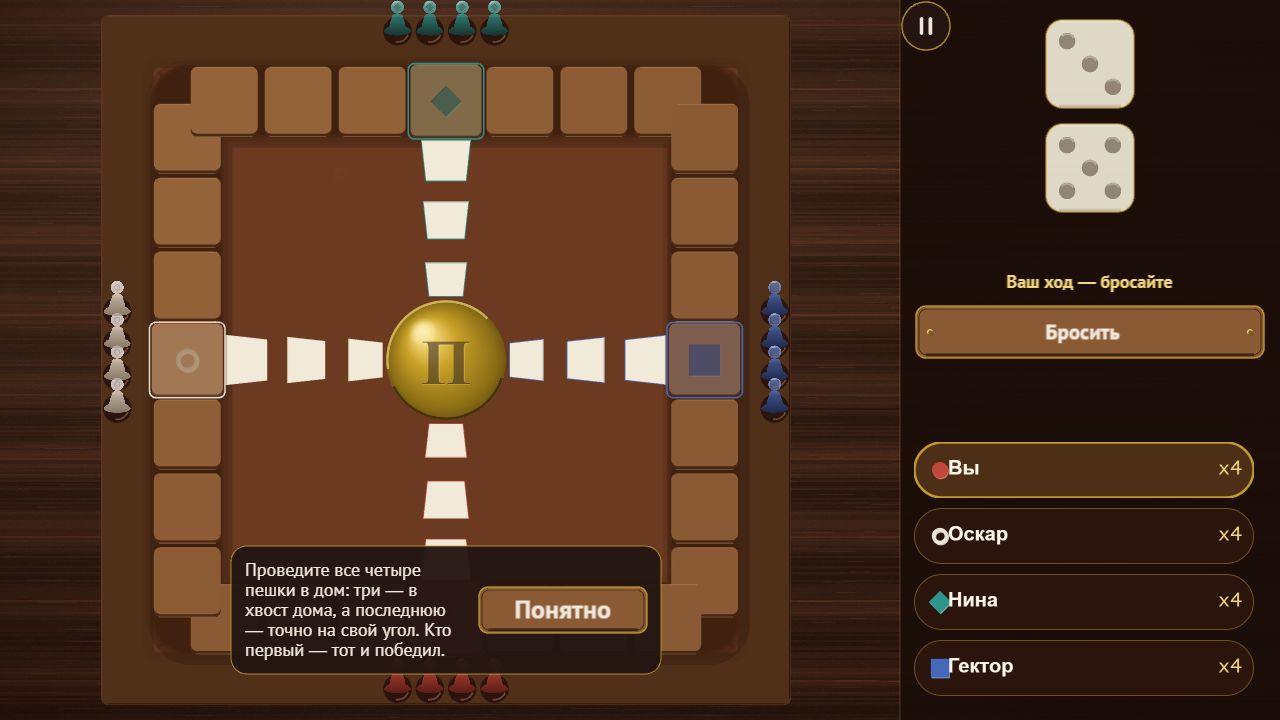
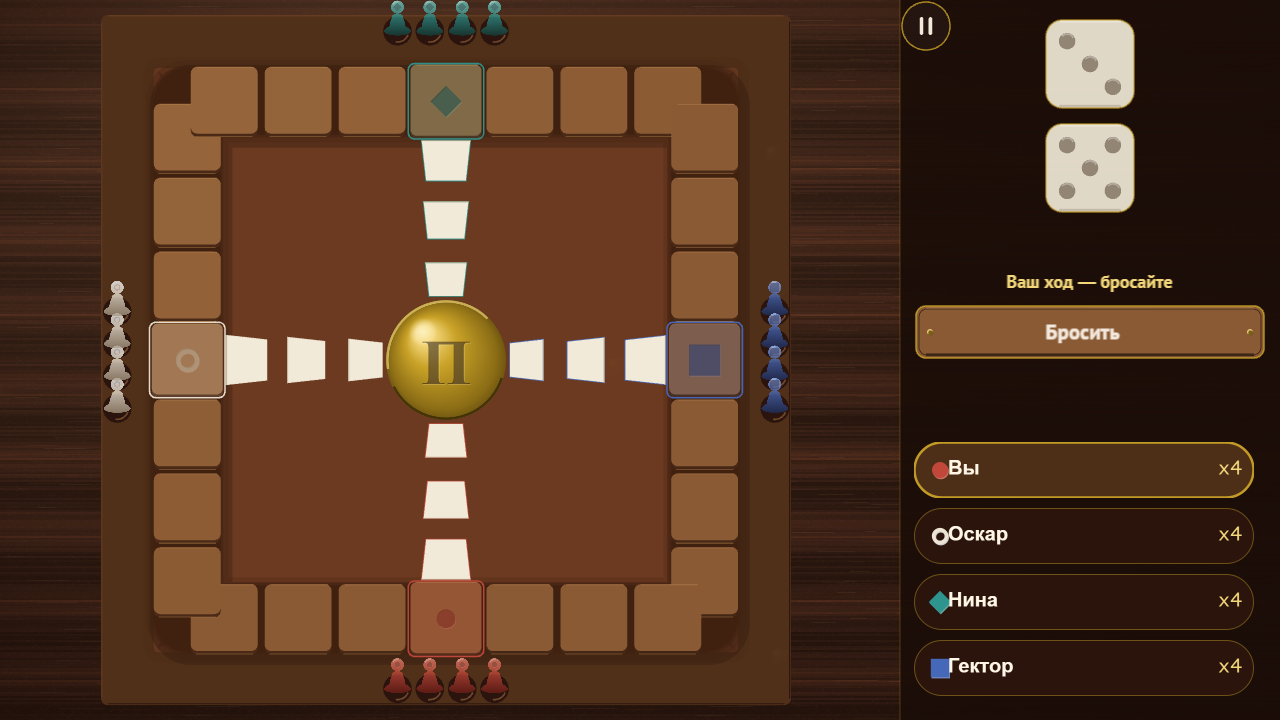
web: hint as a centred card, portrait bench dropped, 14px body floor (#8 review)

Changed region(s): [[0.1562, 0.7333, 0.5312, 0.9472]]

diff --git a/web/src/ui/tutorial.ts b/web/src/ui/tutorial.ts
@@ -1,12 +1,11 @@
 import { Container, Graphics, Rectangle, Text } from 'pixi.js';
-import { COLORS } from '../render/palette';
 import { FONTS } from '../render/fonts';
 import { t } from '../i18n';
 import { attachKeyGroup, detachKeyGroup } from './keys';
 import type { KeyGroup } from './keys';
 import { createButton } from './widgets';
+import { drawCardPlate, fadeScrimIn, SCRIM_ALPHA, SCRIM_FILL } from './card';
 import type { GameLayout } from '../render/hud';
-import { getSafeArea } from '../render/hud';
 
 export interface TutorialBanner {
   root: Container;
@@ -14,72 +13,59 @@ export interface TutorialBanner {
   /** Shows one concept line; a re-show replaces the text. */
   show(text: string): void;
   hide(): void;
-  /** Dialog rule: the hint strip must not look tappable behind a scrim. */
+  /** Dialog rule: the hint card must not look tappable behind a scrim. */
   setSuppressed(value: boolean): void;
 }
 
 /**
- * First-game hint: one board strip per concept, dismissed with common.ok,
- * persisted through the progress blob by the caller.
+ * First-game hint, one concept per dismissal. #8 review round 2: the old board
+ * strip sat across the cells it explains — the hint is now a centred
+ * dialog-language card over a scrim and never touches the playing field.
  */
 export function createTutorialBanner(onDismiss: () => void): TutorialBanner {
   const root = new Container();
   root.eventMode = 'static';
   root.visible = false;
 
+  const scrim = new Graphics();
   const plate = new Graphics();
   const text = new Text({
     text: '',
-    style: { fill: 0xf2e8dc, fontFamily: FONTS.body, fontWeight: '400', wordWrap: true, breakWords: true },
+    style: {
+      fill: 0xf2e8dc,
+      fontFamily: FONTS.body,
+      fontWeight: '400',
+      wordWrap: true,
+      breakWords: true,
+      align: 'center',
+    },
   });
+  text.anchor.set(0.5, 0);
   const button = createButton(t('common.ok'), { kind: 'primary', width: 168, height: 46, onTap: onDismiss });
   const group: KeyGroup = { root, focusable: () => [button], onEscape: onDismiss };
   const surface: { width: number; height: number; game: GameLayout | null } = { width: 0, height: 0, game: null };
 
-  root.addChild(plate, text, button.root);
+  root.addChild(scrim, plate, text, button.root);
 
   function place(): void {
     const { width, height, game } = surface;
     if (game === null || width === 0) return;
-    const portrait = game.orientation === 'portrait';
-    const bannerWidth = Math.min(width - 24, portrait ? 300 : 430);
-    const pad = 14;
-    text.style.fontSize = game.baseFont + 1;
-    if (portrait) {
-      text.anchor.set(0, 0);
-      // stack: text line(s) over the ack button
-      text.style.wordWrapWidth = bannerWidth - pad * 2;
-      const bannerHeight = pad * 2 + text.height + 12 + 46;
-      const trayPad = game.isTv ? 1.5 : 1;
-      const bottom = Math.max(Math.round(8 * trayPad), getSafeArea().bottom); // §7 safe-area env
-      const y = height - bottom - Math.round(224 * trayPad) - bannerHeight / 2 - 8;
-      root.position.set(width / 2, y);
-      text.position.set(-bannerWidth / 2 + pad, -bannerHeight / 2 + pad);
-      button.root.position.set(0, bannerHeight / 2 - pad - 23);
-      root.hitArea = new Rectangle(-bannerWidth / 2, -bannerHeight / 2, bannerWidth, bannerHeight);
-      plate.clear();
-      plate.roundRect(-bannerWidth / 2, -bannerHeight / 2, bannerWidth, bannerHeight, 16).fill({ color: 0x241511, alpha: 0.96 });
-      plate
-        .roundRect(-bannerWidth / 2, -bannerHeight / 2, bannerWidth, bannerHeight, 16)
-        .stroke({ width: 1, color: COLORS.brass, alpha: 0.8 });
-      return;
-    }
+    // §9 floor: body text never drops below 14 px, portrait phone stays at baseFont
+    const bodyFont = Math.max(game.baseFont, 14);
+    const cardWidth = Math.round(game.orientation === 'portrait' ? Math.min(width - 40, 340) : 460);
+    text.style.fontSize = bodyFont;
+    text.style.wordWrapWidth = cardWidth - 64;
+    const cardHeight = Math.round(28 + text.height + 18 + 46 + 26);
 
-    // landscape: text left, ack button right, just above the bottom board edge
-    text.anchor.set(0, 0.5);
-    text.style.wordWrapWidth = bannerWidth - pad * 2 - 180;
-    const landscapeHeight = Math.max(text.height, 46) + pad * 2;
-    root.position.set(game.board.x + game.board.size / 2, height - 110);
-    text.position.set(-bannerWidth / 2 + pad, 0);
-    button.root.position.set(bannerWidth / 2 - pad - 84, 0);
-    root.hitArea = new Rectangle(-bannerWidth / 2, -landscapeHeight / 2, bannerWidth, landscapeHeight);
-    plate.clear();
-    plate
-      .roundRect(-bannerWidth / 2, -landscapeHeight / 2, bannerWidth, landscapeHeight, 16)
-      .fill({ color: 0x241511, alpha: 0.96 });
-    plate
-      .roundRect(-bannerWidth / 2, -landscapeHeight / 2, bannerWidth, landscapeHeight, 16)
-      .stroke({ width: 1, color: COLORS.brass, alpha: 0.8 });
+    scrim
+      .clear()
+      .rect(-width / 2, -height / 2, width, height)
+      .fill({ color: SCRIM_FILL, alpha: SCRIM_ALPHA });
+    drawCardPlate(plate, cardWidth, cardHeight);
+    root.position.set(width / 2, height / 2);
+    root.hitArea = new Rectangle(-width / 2, -height / 2, width, height);
+    text.position.set(0, -cardHeight / 2 + 28);
+    button.root.position.set(0, cardHeight / 2 - 26 - 23);
   }
 
   let attached = false;
@@ -100,17 +86,18 @@ export function createTutorialBanner(onDismiss: () => void): TutorialBanner {
       surface.width = width;
       surface.height = height;
       surface.game = game;
-      if (root.visible) place();
+      if (shown) place();
     },
     show(next) {
       text.text = next;
       shown = true;
       applyVisibility();
+      place();
       if (!attached) {
         attached = true;
         attachKeyGroup(group);
       }
-      place();
+      fadeScrimIn(scrim);
     },
     hide() {
       shown = false;

diff --git a/web/tests/screens.spec.ts b/web/tests/screens.spec.ts
@@ -17,12 +17,21 @@ const GAME_URL = 'http://localhost:5173/?screen=game&seed=424242';
 // fresh browser and stale headless shells are force-killed at the end.
 let browser: Browser | null = null;
 
+/** Fresh profiles queue all four hint concepts; art/game shots need the clean board. */
+async function dismissHints(page: Page): Promise<void> {
+  for (let index = 0; index < 4; index += 1) {
+    await page.keyboard.press('Enter');
+    await page.waitForTimeout(140);
+  }
+}
+
 async function freshGamePage(viewport: { width: number; height: number }): Promise<Page> {
   browser = await chromium.launch({ headless: true, args: ['--enable-unsafe-swiftshader'] });
   const page = await browser.newPage({ viewport, deviceScaleFactor: 1 });
   await page.goto(GAME_URL);
   await page.waitForSelector('canvas');
-  // bots play while the shot is taken; the board must show a real game
+  await dismissHints(page);
+  // bots idle while the human seat waits; the board must show a real game
   await page.waitForTimeout(2500);
   await expect(page.locator('canvas')).toBeVisible();
   return page;
@@ -143,6 +152,7 @@ test.describe('art pass evidence', () => {
     });
     await page.goto(`${GAME_URL}&audit=1`);
     await page.waitForSelector('canvas');
+    await dismissHints(page);
     await page.waitForTimeout(3000);
     const canvasesAtBoot = await page.evaluate(
       () => (window as unknown as { __peshkiAudit: { canvases: number } }).__peshkiAudit.canvases,
@@ -312,6 +322,8 @@ test.describe('ticket #7 screens and i18n evidence', () => {
           for (const state of chunk) {
             await page.goto(`http://localhost:5173/?lang=${lang}${state.suffix}`);
             await page.waitForSelector('canvas');
+            // game states carry the first-run hint card; modal shots want the board visible too
+            if (state.suffix.includes('screen=game')) await dismissHints(page);
             // dialogs slide in at 1.2 s (result) / 1.5 s (pause, howto, settings); bots animate meanwhile
             await page.waitForTimeout(2600);
             await page.screenshot({
@@ -342,6 +354,7 @@ test.describe('ticket #8 effect + TV captures', () => {
       const page = await browser.newPage({ viewport: { width: viewport.width, height: viewport.height }, deviceScaleFactor: 1 });
       await page.goto('http://localhost:5173/?screen=game&seed=424242&audit=1&fx=kill');
       await page.waitForSelector('canvas');
+      await dismissHints(page);
       // staging fires at 1500 ms: hop 120 ms, arc 360 ms — the apex is ~1.75 s
       await page.waitForTimeout(1780);
       await page.screenshot({ path: resolve(SHOT_DIR, `fx-kill-${viewport.name}.png`), timeout: 55_000 });
@@ -356,6 +369,8 @@ test.describe('ticket #8 effect + TV captures', () => {
     const page = await browser.newPage({ viewport: { width: 1920, height: 1080 }, deviceScaleFactor: 1 });
     await page.goto(`${GAME_URL}&audit=1`);
     await page.waitForSelector('canvas');
+    // the hint card owns Enter while it shows; clear the queue before the roll walk
+    await dismissHints(page);
     await page.waitForTimeout(2500);
     // walk focus:targets appear once dice are rolled and hint rings are on the board
     await page.keyboard.press('ArrowDown');

diff --git a/web/src/render/board-view.ts b/web/src/render/board-view.ts
@@ -14,6 +14,8 @@ export interface BoardView {
   focusCell(cellIndex: number | null): void;
   /** §4: corner symbols stay engraved until the player's first pawn is placed. */
   setCornerOccupied(playerIndex: number, occupied: boolean): void;
+  /** Review #8 round 2: portrait reads the bench recesses as debris — hide them there too. */
+  setBenchSlotsVisible(visible: boolean): void;
   /** Debug harness (art review #6): show only the named material layers. */
   setLayerVisible(names: ReadonlySet<string>): void;
 }
@@ -65,6 +67,7 @@ export function createBoardView(initial: BoardGeometry, textures: GameTextures):
   let geometry = initial;
   let points = new Map<number, Point>();
   const occupiedCorners = [false, false, false, false];
+  let benchSlotsShown = true;
 
   function layout(next: BoardGeometry): void {
     geometry = next;
@@ -267,6 +270,8 @@ const OUTER_CONTACT = [
 
   /** §4 benches: four recessed seats Ø53 with rim light. */
   function drawBenchSlots(): void {
+    benchesG.clear();
+    if (!benchSlotsShown) return; // portrait review: recesses read as debris at this scale
     const { scale: k } = geometry;
     for (const benches of geometry.benches) {
       for (const slot of benches) {
@@ -332,6 +337,11 @@ const OUTER_CONTACT = [
       if (occupiedCorners[playerIndex] === occupied) return;
       occupiedCorners[playerIndex] = occupied;
       drawCornerMarks();
+    },
+    setBenchSlotsVisible(visible) {
+      if (benchSlotsShown === visible) return;
+      benchSlotsShown = visible;
+      drawBenchSlots();
     },
     setLayerVisible(names) {
       for (const [name, layer] of Object.entries(layerOf)) layer.visible = names.has(name);

diff --git a/web/src/ui/game-screen.ts b/web/src/ui/game-screen.ts
@@ -734,9 +734,12 @@ export function createGameScreen(options: GameScreenOptions): GameScreen {
       boardLayer.position.set(gameLayout.board.x, gameLayout.board.y);
       boardView.layout(geometry);
       pawnViews.layout(geometry);
-      // #8 art handover: portrait bench pawns sit ~18x20 px — unreadable; the chip count (×4) carries it.
-      // Landscape/TV keeps them at ~33x37 px. Bench slots themselves stay drawn.
-      pawnViews.setBenchVisible(!(gameLayout.orientation === 'portrait' && !gameLayout.isTv));
+      // #8 art handover, review round 2: portrait bench pawns are ~18x20 px and the
+      // recesses read as debris at that scale — the chip count (×4) carries everything.
+      // Landscape/TV keeps pawns at ~33x37 px with their slots.
+      const portrait = gameLayout.orientation === 'portrait' && !gameLayout.isTv;
+      pawnViews.setBenchVisible(!portrait);
+      boardView.setBenchSlotsVisible(!portrait);
       hud.layout(width, height, gameLayout);
       tutorial.layout(width, height, gameLayout);
       root.hitArea = new Rectangle(0, 0, width, height);
